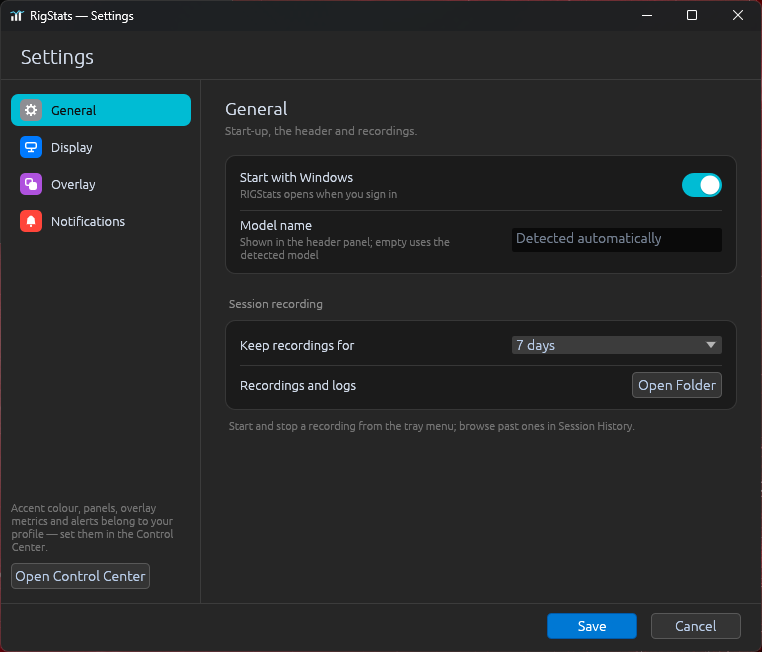
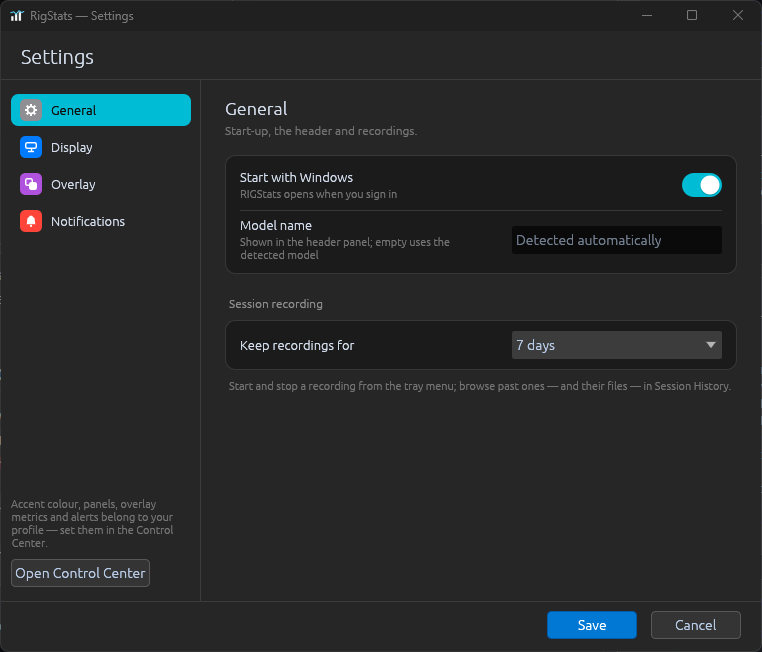
style(settings): one name for link buttons, one home for the log folder
- The link rows in Settings said "Control Center" while the sidebar said
  "Open Control Center"; all link buttons are now named after where they
  go.
- Settings > General had its own "Open Folder" next to Status' "Open
  Log Folder"; the folder now opens from Status only (recordings' files
  from Session History's Show File).
- The design guide states both rules; website text and screenshots
  updated.

diff --git a/website/index.html b/website/index.html
@@ -702,7 +702,7 @@
             <h3>Settings</h3>
             <p>What applies to the whole app, whichever profile is active. Changes preview live; Cancel restores the previous state. Accent colour, panels, overlay metrics and alert levels belong to your profile and live in the Control Center — Settings links straight there. In <strong>Desktop Wallpaper</strong> mode the window layer changes on <strong>Save</strong> and the display profile is locked — switch to another layer to change it.</p>
             <ul>
-              <li><strong>General</strong> — start with Windows, model name, how long recordings are kept, open the log folder</li>
+              <li><strong>General</strong> — start with Windows, model name, how long recordings are kept</li>
               <li><strong>Display</strong> — display profile, window layer (Normal / Always on Top / Always Behind / Desktop Wallpaper — survives Win+D), floating panels and their size, fill screen and position, the graphics card shown, power supply rating</li>
               <li><strong>Overlay</strong> — corner and distance from the edge, size, background and opacity, click-through</li>
               <li><strong>Notifications</strong> — critical alerts and warnings on or off, how often an alert repeats, a test notification</li>

diff --git a/src-egui/src/windows/settings.rs b/src-egui/src/windows/settings.rs
@@ -286,7 +286,7 @@ pub fn show(
                                 draft, saved_at, ..
                             } = &mut *st;
                             match page {
-                                Page::General => general_page(ui, dc, draft, dir.as_ref()),
+                                Page::General => general_page(ui, dc, draft),
                                 Page::Display => {
                                     display_page(ui, dc, draft, &applied_layer, &gpu_names)
                                 }
@@ -394,7 +394,7 @@ fn control_center_row(
     page: control::Page,
 ) {
     g.row(title, Some(subtitle), |ui| {
-        if theme::dialog_btn_secondary(ui, "Control Center", dc).clicked() {
+        if theme::dialog_btn_secondary(ui, "Open Control Center", dc).clicked() {
             *requests.lock_safe() = Some(OpenRequest::Control(page));
         }
     });
@@ -402,7 +402,7 @@ fn control_center_row(
 
 // ── General ───────────────────────────────────────────────────────────────────
 
-fn general_page(ui: &mut egui::Ui, dc: &DialogColors, draft: &mut settings::Settings, dir: &Path) {
+fn general_page(ui: &mut egui::Ui, dc: &DialogColors, draft: &mut settings::Settings) {
     ui_kit::page_header(ui, dc, "General", "Start-up, the header and recordings.");
     ui_kit::group(ui, dc, None, None, |g| {
         g.row(
@@ -430,7 +430,7 @@ fn general_page(ui: &mut egui::Ui, dc: &DialogColors, draft: &mut settings::Sett
         ui,
         dc,
         Some("Session recording"),
-        Some("Start and stop a recording from the tray menu; browse past ones in Session History."),
+        Some("Start and stop a recording from the tray menu; browse past ones — and their files — in Session History."),
         |g| {
             g.row("Keep recordings for", None, |ui| {
                 let current = LOG_RETENTION_OPTIONS
@@ -442,11 +442,6 @@ fn general_page(ui: &mut egui::Ui, dc: &DialogColors, draft: &mut settings::Sett
                         ui.selectable_value(&mut draft.log_retention_days, days, label);
                     }
                 });
-            });
-            g.row("Recordings and logs", None, |ui| {
-                if theme::dialog_btn_secondary(ui, "Open Folder", dc).clicked() {
-                    let _ = std::process::Command::new("explorer").arg(dir).spawn();
-                }
             });
         },
     );

diff --git a/src-egui/src/windows/CLAUDE.md b/src-egui/src/windows/CLAUDE.md
@@ -13,7 +13,7 @@ Every setting has exactly one home:
 | Overlay shown, its metrics and layout | Overlay position, size, background, click-through |
 | Alert thresholds | Notifications on/off, repeat interval |
 
-Ask "does this change with what I'm doing (gaming, quiet, work)?" — yes → profile, no → Settings. Where a setting sits in the other window, add a row that links there (`OpenRequest`, `windows/mod.rs`), not a second editor.
+Ask "does this change with what I'm doing (gaming, quiet, work)?" — yes → profile, no → Settings. Where a setting sits in the other window, add a row that links there (`OpenRequest`, `windows/mod.rs`), not a second editor. The same goes for actions: each has one home (the log folder is in Status, a recording's file in Session History), not a copy in every window that could have it. A link button is always named after where it goes — "Open Control Center", "Open Settings" — the same wherever it appears.
 
 ## Window lifecycle (mandatory for every dialog, #203)
 
